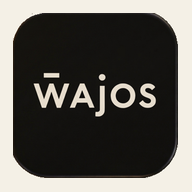
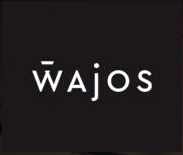
Hintergrund der Kundenkarte auf Dunkelbraun stellen.

diff --git a/style.css b/style.css
@@ -1,8 +1,8 @@
 :root {
-  --paper: #111111;
-  --ink: #f4f0e6;
+  --paper: #3b2a1e;
+  --ink: #f4efe6;
   --muted: #d9d2c5;
-  --line: #f4f0e6;
+  --line: #f4efe6;
   --cream: #f4f0e6;
   --accent: #141414;
   --black: #111111;
@@ -18,7 +18,7 @@ html {
 
 body {
   margin: 0;
-  background: var(--black);
+  background: #3b2a1e;
   color: var(--ink);
   font-family: "Segoe UI", "Helvetica Neue", sans-serif;
   line-height: 1.45;
@@ -37,27 +37,27 @@ main {
 }
 
 body[data-stufe="1"] {
-  --paper: #1c1c1c;
-  --ink: #f4f0e6;
+  --paper: #3b2a1e;
+  --ink: #f4efe6;
   --muted: #d9d2c5;
-  --line: #f4f0e6;
-  background: #1c1c1c;
+  --line: #f4efe6;
+  background: #3b2a1e;
 }
 
 body[data-stufe="2"] {
-  --paper: #161616;
-  --ink: #f4f0e6;
+  --paper: #3b2a1e;
+  --ink: #f4efe6;
   --muted: #d9d2c5;
-  --line: #f4f0e6;
-  background: #161616;
+  --line: #f4efe6;
+  background: #3b2a1e;
 }
 
 body[data-stufe="3"] {
-  --paper: #0c0c0c;
-  --ink: #f7f3ea;
+  --paper: #3b2a1e;
+  --ink: #f4efe6;
   --muted: #ddd4c6;
-  --line: #f7f3ea;
-  background: #0c0c0c;
+  --line: #f4efe6;
+  background: #3b2a1e;
 }
 
 body[data-stufe="2"],
@@ -173,7 +173,7 @@ label { display: block; margin-top: 0.45rem; font-weight: 650; }
 .logo-band {
   display: block;
   width: 100%;
-  background: #f4f0e6;
+  background: transparent;
 }
 
 .wordmark {
@@ -183,7 +183,7 @@ label { display: block; margin-top: 0.45rem; font-weight: 650; }
   font-weight: 650;
   letter-spacing: 0.14em;
   line-height: 1.05;
-  color: #141414;
+  color: #f4efe6;
 }
 
 button.logo-button {
@@ -193,12 +193,12 @@ button.logo-button {
   padding: 0;
   border: 0;
   border-radius: 0;
-  overflow: hidden;
-  background: #f4f0e6;
+  overflow: visible;
+  background: transparent;
   line-height: 0;
 }
 
-button.logo-button:hover { background: #f4f0e6; }
+button.logo-button:hover { background: transparent; }
 
 .logo {
   display: block;
@@ -469,7 +469,7 @@ input.scan-input {
   }
   button[aria-pressed="false"]:hover,
   button.quiet:hover { background: #2a2a2a; }
-  button.logo-button:hover { background: #f4f0e6; }
+  button.logo-button:hover { background: transparent; }
 }
 
 @media (max-width: 359px) {

diff --git a/static/style.css b/static/style.css
@@ -1,8 +1,8 @@
 :root {
-  --paper: #111111;
-  --ink: #f4f0e6;
+  --paper: #3b2a1e;
+  --ink: #f4efe6;
   --muted: #d9d2c5;
-  --line: #f4f0e6;
+  --line: #f4efe6;
   --cream: #f4f0e6;
   --accent: #141414;
   --black: #111111;
@@ -89,17 +89,19 @@ label { display: block; margin-top: 0.85rem; font-weight: 650; }
   font-weight: 650;
   letter-spacing: 0.14em;
   line-height: 1.05;
-  color: #141414;
+  color: #f4efe6;
 }
 
 button.logo-button {
-  width: 6.6rem;
-  height: 6.6rem;
+  display: block;
+  width: min(100%, 16rem);
+  height: auto;
   min-height: 0;
+  margin: 0 auto;
   padding: 0;
   border: 0;
-  border-radius: 1.45rem;
-  overflow: hidden;
+  border-radius: 0;
+  overflow: visible;
   background: transparent;
   line-height: 0;
 }
@@ -111,8 +113,8 @@ button.logo-button:hover {
 .logo {
   display: block;
   width: 100%;
-  height: 100%;
-  object-fit: cover;
+  height: auto;
+  object-fit: contain;
 }
 
 .logo[hidden],
@@ -199,7 +201,7 @@ body[data-eingang="kasse"] #kunde { display: none; }
 .muted, .hint { color: var(--muted); }
 .hint { font-size: 0.95rem; }
 
-.ok { color: var(--black); }
+.ok { color: var(--ink); }
 .error { color: #ffb4b4; }
 
 label.scan-button {
@@ -251,7 +253,7 @@ input.scan-input {
 }
 
 @media (min-width: 860px) {
-  body { background: var(--black); }
+  body { background: var(--paper); }
   main {
     max-width: 72rem;
     min-height: 100vh;

diff --git a/index.html b/index.html
@@ -3,7 +3,7 @@
 <head>
   <meta charset="utf-8">
   <meta name="viewport" content="width=device-width, initial-scale=1, viewport-fit=cover">
-  <meta name="theme-color" content="#111111">
+  <meta name="theme-color" content="#3b2a1e">
   <meta name="apple-mobile-web-app-capable" content="yes">
   <meta name="mobile-web-app-capable" content="yes">
   <meta name="apple-mobile-web-app-title" content="WAJOS">

diff --git a/static/index.html b/static/index.html
@@ -3,7 +3,7 @@
 <head>
   <meta charset="utf-8">
   <meta name="viewport" content="width=device-width, initial-scale=1">
-  <meta name="theme-color" content="#111111">
+  <meta name="theme-color" content="#3b2a1e">
   <meta name="apple-mobile-web-app-capable" content="yes">
   <meta name="mobile-web-app-capable" content="yes">
   <meta name="apple-mobile-web-app-title" content="WAJOS">
